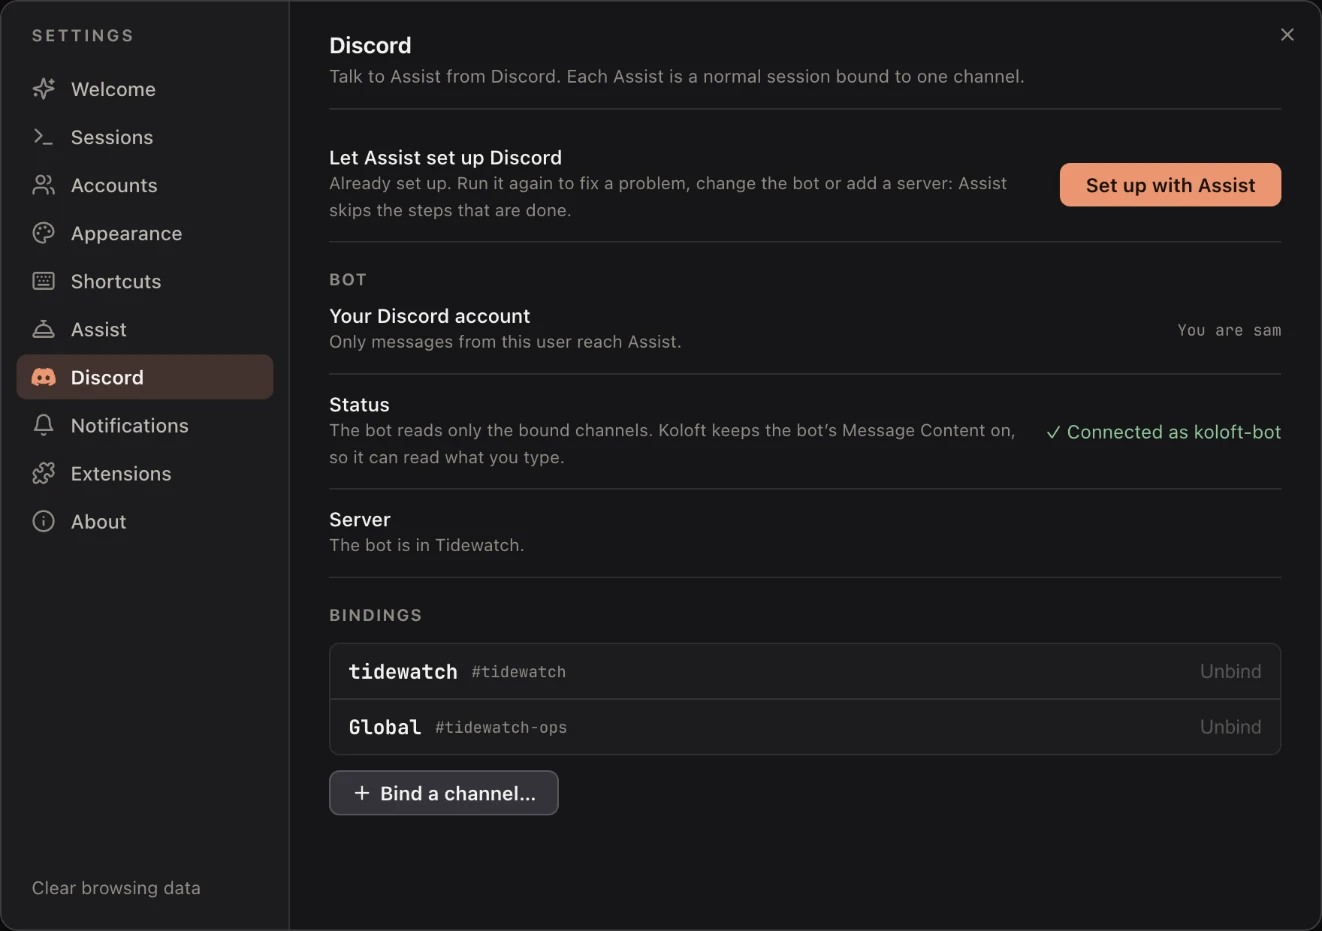
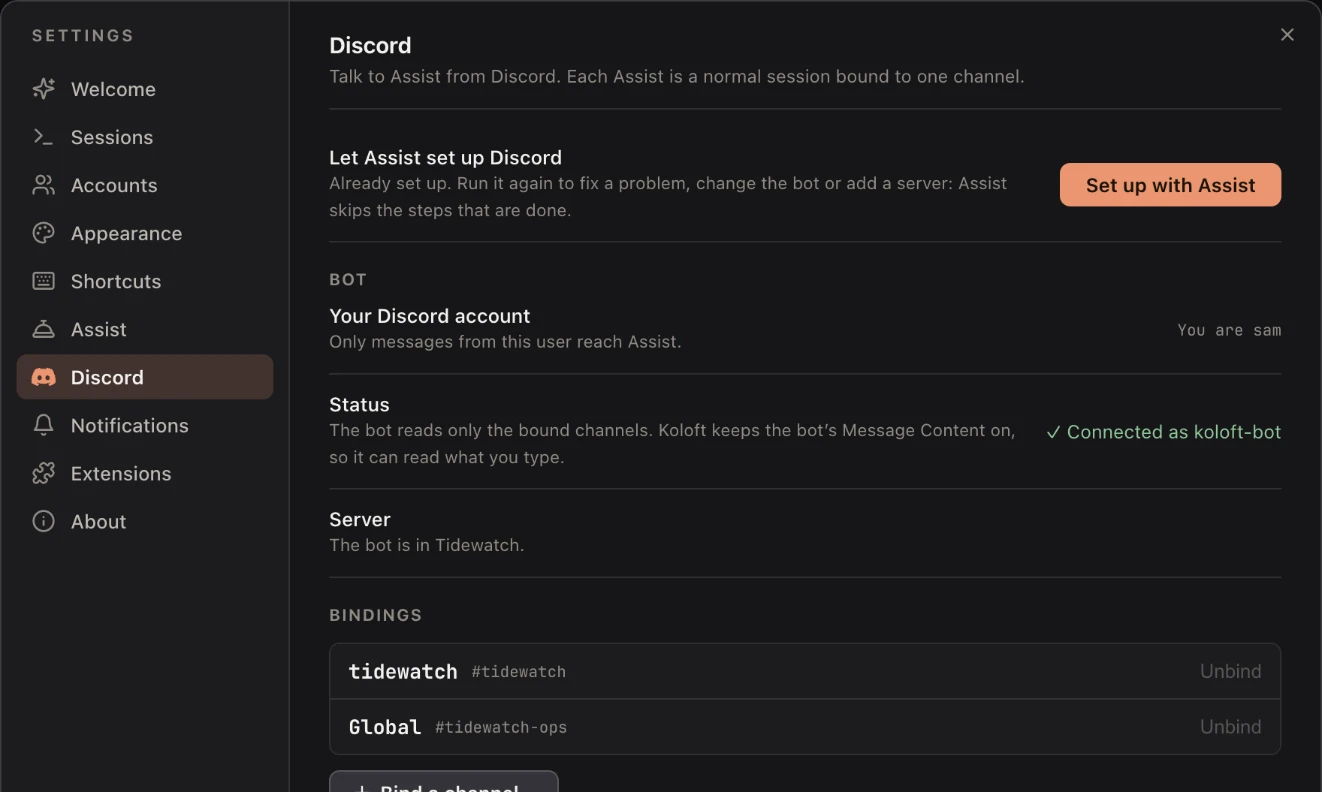
docs(site): the fact check's six fixes

diff --git a/site/discord/index.html b/site/discord/index.html
@@ -157,7 +157,7 @@ your Mac
           that are done.
         </p>
 
-        <figure class="shot" style="--ar: 1322 / 931; --ar-phone: 730 / 600">
+        <figure class="shot" style="--ar: 1322 / 792; --ar-phone: 730 / 600">
           <div class="frame">
             <picture>
               <source
@@ -169,9 +169,9 @@ your Mac
               <img
                 src="../img/r-discord-settings.webp"
                 width="1322"
-                height="931"
+                height="792"
                 loading="lazy"
-                alt="Koloft's Settings, Discord page: a Set up with Assist button, under Let Assist set up Discord; your Discord account, You are sam; status, Connected as koloft-bot; server, The bot is in Tidewatch; two bindings, tidewatch (#tidewatch) and Global (#tidewatch-ops), each with Unbind; and a Bind a channel… button"
+                alt="Koloft's Settings, Discord page: a Set up with Assist button, under Let Assist set up Discord; your Discord account, You are sam; status, Connected as koloft-bot; server, The bot is in Tidewatch; and the start of the bindings list"
               />
             </picture>
             <span class="tape" aria-hidden="true"></span>
@@ -196,7 +196,7 @@ your Mac
               width="430"
               height="620"
               loading="lazy"
-              alt="The Bind a Discord channel dialog. Scope: Global and tidewatch are greyed out, harbor-site is picked. Channel: New channel #harbor-site on top, #tidewatch and #tidewatch-ops greyed out, #harbor-site picked."
+              alt="The Bind a Discord channel dialog. Scope: Global and tidewatch are greyed out, harbor-site is picked. Channel: New channel #harbor-site-2 on top, #tidewatch and #tidewatch-ops greyed out, #harbor-site picked."
             />
             <span class="tape" aria-hidden="true"></span>
           </div>
@@ -560,8 +560,10 @@ your Mac
             there, and none of it goes back out.
           </li>
           <li>
-            When a team owns the app, before you pick yourself, anyone's message in the server shows
-            up in Koloft, so you can pick.
+            Koloft finds you by itself when the bot's app is yours. When a Discord team owns the app
+            instead, Koloft cannot tell who you are: until you pick yourself, the last message
+            anyone wrote in the server shows up in Settings ▸ Discord, so you can say it is you or
+            not.
           </li>
           <li>
             "Waiting" and "closed" cards go out for every session in a bound folder (every folder,

diff --git a/site/agents/index.html b/site/agents/index.html
@@ -114,13 +114,13 @@
           <li>
             <code>koloft session new</code> — start a session of the same kind (Claude starts
             Claude, Codex starts Codex), in its own git worktree with
-            <code class="nowrap">-w</code>. Every session is told which helper fits which job: work
-            that needs a branch or worktree of its own goes to a Koloft session started this way,
-            never to a hidden helper or a branch in the folder other sessions share. Only Assist
-            (see below) can pick the other kind, with <code class="nowrap">--backend</code>. Its row
-            hangs under the session that started it (see
-            <a href="../sessions/#session-tree">sessions an agent starts</a>). A Claude session it
-            starts gets a short title that <a href="../accounts/#assist">Koloft Assist</a> makes
+            <code class="nowrap">-w</code>. With "Let agents use Koloft" on, every session is told
+            which helper fits which job: work that needs a branch or worktree of its own goes to a
+            Koloft session started this way, never to a hidden helper or a branch in the folder
+            other sessions share. Only Assist (see below) can pick the other kind, with
+            <code class="nowrap">--backend</code>. Its row hangs under the session that started it
+            (see <a href="../sessions/#session-tree">sessions an agent starts</a>). A Claude session
+            it starts gets a short title that <a href="../accounts/#assist">Koloft Assist</a> makes
             from its task (with Assist off, the first line of the task), or the name the agent gave
             it with <code class="nowrap">--name</code>; the same title shows in the sidebar, in
             <code class="nowrap">session list</code> and in Discord. Codex names it itself.
@@ -305,10 +305,6 @@
 
         <h2>Not there yet</h2>
         <ul class="dash">
-          <li>
-            <s class="struck">your own Playwright script in Codex</s>
-            <span class="why">(a command Codex runs is not given the address)</span>
-          </li>
           <li>
             <s class="struck">the browser in remote folders</s>
             <span class="why"

diff --git a/site/sessions/index.html b/site/sessions/index.html
@@ -239,8 +239,9 @@
           <li>
             Type what a new session should do instead, and press <kbd>⏎</kbd>:
             <a href="../accounts/#assist">Assist</a> picks the folder, the worktree and a title, and
-            the session starts there with your words as its first message. <kbd>⇧⏎</kbd> starts it
-            on the other tool. When Assist is not sure which folder, or is off, the folder picker
+            the session starts there with your words as its first message (if the folder's branch is
+            behind, the usual pull question comes first). <kbd>⇧⏎</kbd> starts it on the other tool,
+            when you have both. When Assist is not sure which folder, or is off, the folder picker
             opens instead. Words about Koloft itself ("turn on dark mode", "set up Discord") go to
             Assist as a task, and "ask &lt;folder&gt; …" goes to that folder's Assist.
           </li>
